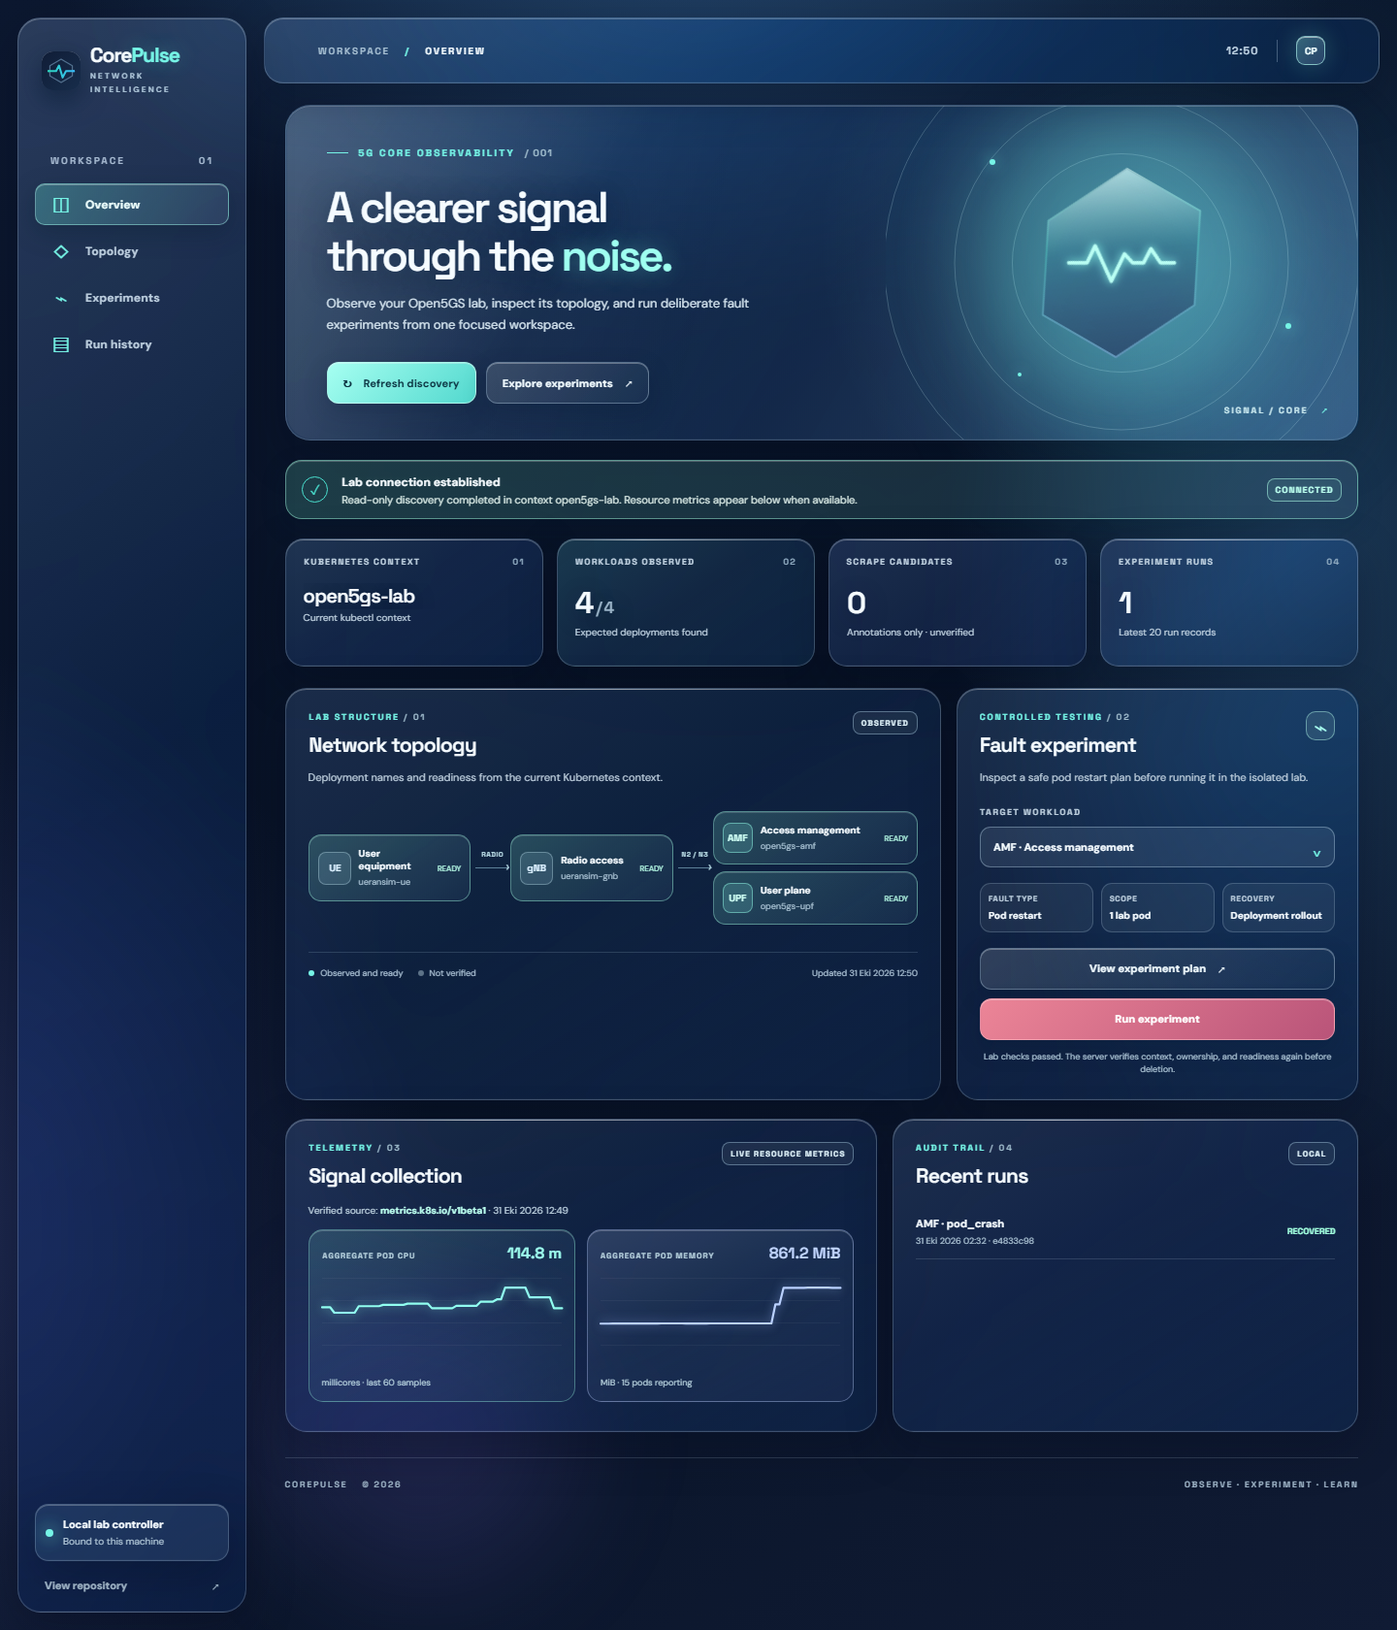
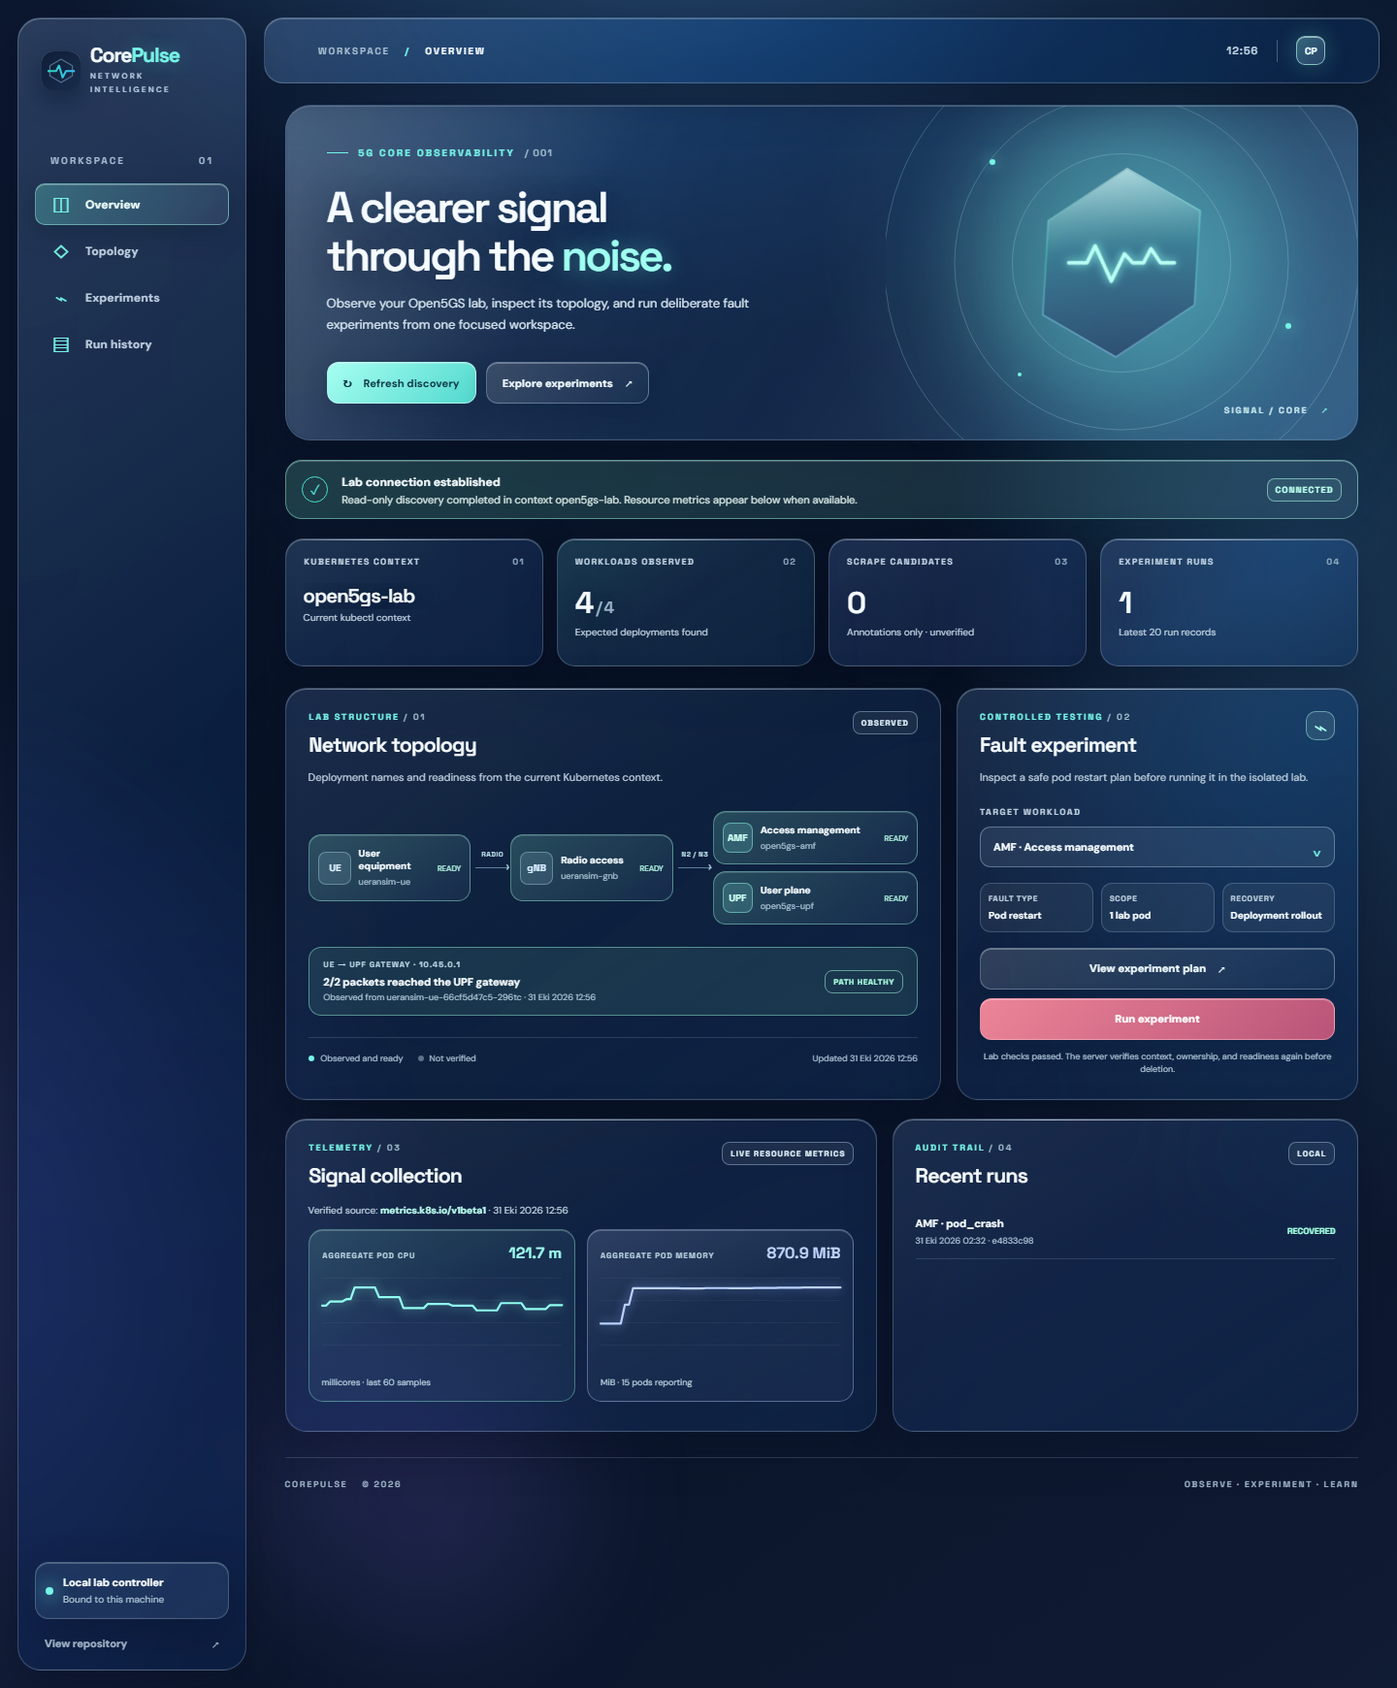
Add live UE to UPF service probe

diff --git a/internal/dashboard/web/app.js b/internal/dashboard/web/app.js
@@ -155,6 +155,29 @@ async function refreshTelemetry() {
   }
 }
 
+async function refreshService() {
+  try {
+    const response = await fetch('/api/service-check', { cache: 'no-store' });
+    if (!response.ok) throw new Error(`Service check returned ${response.status}`);
+    const probe = await response.json();
+    const card = $('#service-probe');
+    card.classList.toggle('healthy', probe.status === 'healthy');
+    card.classList.toggle('degraded', probe.status === 'degraded');
+    $('#probe-badge').textContent = probe.status === 'healthy' ? 'PATH HEALTHY' : probe.status === 'degraded' ? 'DEGRADED' : 'UNAVAILABLE';
+    $('#probe-title').textContent = probe.status === 'healthy'
+      ? `${probe.received}/${probe.sent} packets reached the UPF gateway`
+      : probe.status === 'degraded' ? 'UE path did not pass the ping check' : 'UE path could not be checked';
+    $('#probe-detail').textContent = probe.status === 'healthy'
+      ? `Observed from ${probe.ue_pod} · ${displayTime(probe.checked_at)}`
+      : probe.detail || 'The isolated lab or its current UE pod is unavailable.';
+  } catch (error) {
+    $('#service-probe').classList.remove('healthy', 'degraded');
+    $('#probe-badge').textContent = 'UNAVAILABLE';
+    $('#probe-title').textContent = 'UE path could not be checked';
+    $('#probe-detail').textContent = error.message;
+  }
+}
+
 function addPlanRow(parent, label, value) {
   const row = document.createElement('div'); row.className = 'plan-row';
   const key = document.createElement('span'); key.textContent = label;
@@ -189,8 +212,9 @@ async function runExperiment() {
     const result = await response.json();
     if (!response.ok) throw new Error(result.error || 'Experiment failed');
     const datasetNote = result.dataset ? ` Dataset updated: ${result.dataset.samples} samples, ${result.dataset.fault} in the experiment window.` : '';
-    toast(result.status === 'recovered' ? `Recovery verified. Run record saved.${datasetNote}` : 'Recovery could not be verified. Check the lab and run record.');
-    await Promise.all([refreshOverview(), refreshRuns()]);
+    const serviceNote = result.service_probe?.status === 'healthy' ? ' UE path verified.' : result.service_probe ? ' UE path needs checking.' : '';
+    toast(result.status === 'recovered' ? `Deployment recovery verified.${serviceNote} Run record saved.${datasetNote}` : 'Recovery could not be verified. Check the lab and run record.');
+    await Promise.all([refreshOverview(), refreshRuns(), refreshService()]);
   } catch (error) { toast(error.message); }
   finally { $('#confirm-dialog').close(); $('#confirm-run').textContent = 'Delete one lab pod'; $('#confirm-input').value = ''; }
 }
@@ -218,4 +242,5 @@ $('#confirm-run').addEventListener('click', runExperiment);
 updateClock(); setInterval(updateClock, 30000);
 setInterval(refreshOverview, 30000);
 setInterval(refreshTelemetry, 10000);
-Promise.all([refreshOverview(), refreshRuns(), refreshTelemetry()]);
+setInterval(refreshService, 30000);
+Promise.all([refreshOverview(), refreshRuns(), refreshTelemetry(), refreshService()]);

diff --git a/internal/dashboard/web/glass.css b/internal/dashboard/web/glass.css
@@ -140,6 +140,16 @@ main { max-width: 1680px; padding: 22px clamp(8px, 1.5vw, 26px) 0; }
 .topo-connector span::after,
 .topo-connector small { color: #b9dce6; }
 .topo-core { min-width: 0; }
+.service-probe { display: flex; align-items: center; justify-content: space-between; gap: 15px; margin-top: 17px; padding: 12px 14px; border: 1px solid #d3edff44; border-radius: 13px; background: #e2f5ff10; }
+.service-probe > div { min-width: 0; }
+.probe-kicker { display: block; color: #bad4e4; font: 700 8px 'Space Grotesk', sans-serif; letter-spacing: 1px; }
+.service-probe strong { display: block; margin-top: 6px; font-size: 11px; }
+.service-probe small { display: block; margin-top: 3px; color: #acc4d5; font-size: 9px; line-height: 1.4; overflow-wrap: anywhere; }
+.probe-badge { flex: none; border: 1px solid #d4eaff63; border-radius: 8px; padding: 6px 8px; color: #dceaf5; font: 700 8px 'Space Grotesk', sans-serif; letter-spacing: .7px; }
+.service-probe.healthy { border-color: #9effdd72; background: #8affda19; }
+.service-probe.healthy .probe-badge { color: #aaffdf; border-color: #aaffdf86; }
+.service-probe.degraded { border-color: #ffb4ae77; background: #ffa4ad19; }
+.service-probe.degraded .probe-badge { color: #ffd1ca; border-color: #ffc6bd84; }
 .panel-bottom { border-color: #c9edff27; color: #abc1d4; }
 
 .experiment-mark { color: #a8fff0; border-color: #b9ffeb70; background: #c4fff41c; border-radius: 10px; }

diff --git a/internal/dashboard/web/index.html b/internal/dashboard/web/index.html
@@ -78,6 +78,7 @@
               <div class="topo-connector"><span></span><small>N2 / N3</small></div>
               <div class="topo-core"><div class="topo-node" data-workload="open5gs-amf"><div class="topo-icon accent">AMF</div><div><strong>Access management</strong><small>open5gs-amf</small></div><span class="topo-state">—</span></div><div class="topo-node" data-workload="open5gs-upf"><div class="topo-icon accent">UPF</div><div><strong>User plane</strong><small>open5gs-upf</small></div><span class="topo-state">—</span></div></div>
             </div>
+            <div class="service-probe" id="service-probe" aria-live="polite"><div><span class="probe-kicker">UE → UPF GATEWAY · 10.45.0.1</span><strong id="probe-title">Checking user-plane path…</strong><small id="probe-detail">A live ICMP probe runs from the current UE pod.</small></div><span class="probe-badge" id="probe-badge">CHECKING</span></div>
             <div class="panel-bottom"><span class="legend"><i></i> Observed and ready <i class="legend-muted"></i> Not verified</span><span id="topology-updated">Awaiting connection</span></div>
           </section>
 

diff --git a/internal/corepulse/service.go b/internal/corepulse/service.go
@@ -1,0 +1,106 @@
+package corepulse
+
+import (
+	"fmt"
+	"regexp"
+	"strconv"
+	"strings"
+	"time"
+)
+
+const upfGateway = "10.45.0.1"
+
+var pingSummary = regexp.MustCompile(`(\d+) packets transmitted, (\d+) received`)
+
+// ServiceProbe reports a real UE-to-UPF gateway check, separate from pod readiness.
+type ServiceProbe struct {
+	Status    string `json:"status"`
+	Context   string `json:"context"`
+	Namespace string `json:"namespace"`
+	UEPod     string `json:"ue_pod,omitempty"`
+	Gateway   string `json:"gateway"`
+	Sent      int    `json:"sent"`
+	Received  int    `json:"received"`
+	CheckedAt string `json:"checked_at"`
+	Detail    string `json:"detail,omitempty"`
+}
+
+func currentUEPod(client Client) (string, error) {
+	pods, err := client.GetJSON("get", "pods", "--namespace", LabNamespace, "--selector", "app=ueransim,component=ue")
+	if err != nil {
+		return "", err
+	}
+	selected := ""
+	for _, raw := range array(pods["items"]) {
+		pod := object(raw)
+		metadata, status := object(pod["metadata"]), object(pod["status"])
+		if metadata["deletionTimestamp"] != nil || status["phase"] != "Running" {
+			continue
+		}
+		ready := false
+		for _, rawCondition := range array(status["conditions"]) {
+			condition := object(rawCondition)
+			if condition["type"] == "Ready" && condition["status"] == "True" {
+				ready = true
+			}
+		}
+		if !ready {
+			continue
+		}
+		owned := false
+		for _, rawOwner := range array(metadata["ownerReferences"]) {
+			owner := object(rawOwner)
+			if owner["kind"] == "ReplicaSet" && strings.HasPrefix(stringValue(owner["name"]), "ueransim-ue-") {
+				owned = true
+			}
+		}
+		if !owned {
+			continue
+		}
+		name := stringValue(metadata["name"])
+		if name == "" || selected != "" {
+			return "", fmt.Errorf("expected exactly one current UE pod")
+		}
+		selected = name
+	}
+	if selected == "" {
+		return "", fmt.Errorf("no ready deployment-owned UE pod found")
+	}
+	return selected, nil
+}
+
+func ProbeService(client Client) (ServiceProbe, error) {
+	probe := ServiceProbe{Status: "unavailable", Namespace: LabNamespace, Gateway: upfGateway, CheckedAt: time.Now().UTC().Format(time.RFC3339Nano)}
+	context, err := client.Run(10*time.Second, "config", "current-context")
+	if err != nil {
+		return probe, err
+	}
+	probe.Context = context
+	if context != LabContext {
+		return probe, fmt.Errorf("current context %q differs from lab context %q", context, LabContext)
+	}
+	pod, err := currentUEPod(client)
+	if err != nil {
+		return probe, err
+	}
+	probe.UEPod = pod
+	output, err := client.Run(15*time.Second, "exec", "pod/"+pod, "--namespace", LabNamespace, "--", "ping", "-I", "uesimtun0", upfGateway, "-c", "2")
+	if err != nil {
+		probe.Status, probe.Detail = "degraded", err.Error()
+		return probe, nil
+	}
+	matches := pingSummary.FindStringSubmatch(output)
+	if len(matches) != 3 {
+		probe.Status, probe.Detail = "degraded", "ping returned no recognizable packet summary"
+		return probe, nil
+	}
+	probe.Sent, _ = strconv.Atoi(matches[1])
+	probe.Received, _ = strconv.Atoi(matches[2])
+	if probe.Sent == 2 && probe.Received == 2 {
+		probe.Status = "healthy"
+	} else {
+		probe.Status = "degraded"
+		probe.Detail = "UE-to-UPF gateway packets were lost"
+	}
+	return probe, nil
+}

diff --git a/internal/corepulse/service_test.go b/internal/corepulse/service_test.go
@@ -1,0 +1,69 @@
+package corepulse
+
+import (
+	"errors"
+	"strings"
+	"testing"
+	"time"
+)
+
+type probeClient struct {
+	context string
+	execPod string
+	output  string
+	execErr error
+}
+
+func (p *probeClient) Run(_ time.Duration, args ...string) (string, error) {
+	if args[0] == "config" {
+		return p.context, nil
+	}
+	if args[0] == "exec" {
+		p.execPod = args[1]
+		return p.output, p.execErr
+	}
+	return "", errors.New("unexpected kubectl command")
+}
+
+func (p *probeClient) GetJSON(_ ...string) (map[string]any, error) {
+	makePod := func(name string, deleting bool) map[string]any {
+		metadata := map[string]any{"name": name, "ownerReferences": []any{map[string]any{"kind": "ReplicaSet", "name": "ueransim-ue-abc"}}}
+		if deleting {
+			metadata["deletionTimestamp"] = "2026-10-31T00:00:00Z"
+		}
+		return map[string]any{"metadata": metadata, "status": map[string]any{"phase": "Running", "conditions": []any{map[string]any{"type": "Ready", "status": "True"}}}}
+	}
+	return map[string]any{"items": []any{makePod("ueransim-ue-old", true), makePod("ueransim-ue-current", false)}}, nil
+}
+
+func TestProbeServiceUsesCurrentUEAndObservedPackets(t *testing.T) {
+	client := &probeClient{context: LabContext, output: "2 packets transmitted, 2 received, 0% packet loss"}
+	probe, err := ProbeService(client)
+	if err != nil {
+		t.Fatal(err)
+	}
+	if probe.Status != "healthy" || probe.Received != 2 || client.execPod != "pod/ueransim-ue-current" {
+		t.Fatalf("unexpected probe: %+v, exec pod: %s", probe, client.execPod)
+	}
+}
+
+func TestProbeServiceNeverExecutesOutsideLab(t *testing.T) {
+	client := &probeClient{context: "production"}
+	if _, err := ProbeService(client); err == nil || !strings.Contains(err.Error(), "differs") {
+		t.Fatalf("expected context error, got %v", err)
+	}
+	if client.execPod != "" {
+		t.Fatal("executed probe outside lab")
+	}
+}
+
+func TestProbeServiceReportsPacketFailure(t *testing.T) {
+	client := &probeClient{context: LabContext, execErr: errors.New("ping lost packets")}
+	probe, err := ProbeService(client)
+	if err != nil {
+		t.Fatal(err)
+	}
+	if probe.Status != "degraded" || probe.Detail == "" {
+		t.Fatalf("unexpected probe: %+v", probe)
+	}
+}

diff --git a/cmd/corepulse/main.go b/cmd/corepulse/main.go
@@ -40,10 +40,25 @@ func saveJSON(path string, value any) error {
 
 func run(args []string) (int, error) {
 	if len(args) == 0 {
-		return 1, errors.New("usage: corepulse <version|discover|pod-crash|dataset|serve> [options]")
+		return 1, errors.New("usage: corepulse <version|discover|verify-service|pod-crash|dataset|serve> [options]")
 	}
 	client := corepulse.Kubectl{}
 	switch args[0] {
+	case "verify-service":
+		if len(args) != 1 {
+			return 1, errors.New("verify-service takes no arguments")
+		}
+		probe, err := corepulse.ProbeService(client)
+		if err != nil {
+			return 1, err
+		}
+		if err := printJSON(probe); err != nil {
+			return 1, err
+		}
+		if probe.Status != "healthy" {
+			return 2, nil
+		}
+		return 0, nil
 	case "version":
 		if len(args) != 1 {
 			return 1, errors.New("version takes no arguments")
@@ -148,6 +163,13 @@ func run(args []string) (int, error) {
 		if err != nil {
 			return 1, err
 		}
+		if result["status"] == "recovered" {
+			probe, probeErr := corepulse.ProbeService(client)
+			if probeErr != nil {
+				probe.Detail = probeErr.Error()
+			}
+			result["service_probe"] = probe
+		}
 		path := filepath.Join(*runsDir, result["run_id"].(string)+".json")
 		if err := saveJSON(path, result); err != nil {
 			return 1, err
@@ -161,7 +183,7 @@ func run(args []string) (int, error) {
 		}
 		return 0, nil
 	default:
-		return 1, fmt.Errorf("unknown command %q; use version, discover, pod-crash, dataset, or serve", args[0])
+		return 1, fmt.Errorf("unknown command %q; use version, discover, verify-service, pod-crash, dataset, or serve", args[0])
 	}
 }
 

diff --git a/internal/dashboard/server.go b/internal/dashboard/server.go
@@ -37,6 +37,7 @@ func NewWithTelemetry(client corepulse.Client, runsDir string, store *telemetry.
 	mux.HandleFunc("GET /api/plan", s.plan)
 	mux.HandleFunc("GET /api/runs", s.runs)
 	mux.HandleFunc("GET /api/telemetry", s.telemetry)
+	mux.HandleFunc("GET /api/service-check", s.serviceCheck)
 	mux.HandleFunc("POST /api/experiments/pod-crash", s.runPodCrash)
 	web, _ := fs.Sub(webFiles, "web")
 	mux.Handle("/", http.FileServer(http.FS(web)))
@@ -64,6 +65,14 @@ func (s *Server) telemetry(w http.ResponseWriter, _ *http.Request) {
 		result["latest"] = samples[len(samples)-1]
 	}
 	writeJSON(w, http.StatusOK, result)
+}
+
+func (s *Server) serviceCheck(w http.ResponseWriter, _ *http.Request) {
+	probe, err := corepulse.ProbeService(s.Client)
+	if err != nil {
+		probe.Detail = err.Error()
+	}
+	writeJSON(w, http.StatusOK, probe)
 }
 
 func loopbackHost(address string) bool {
@@ -192,6 +201,13 @@ func (s *Server) runPodCrash(w http.ResponseWriter, r *http.Request) {
 	if err != nil {
 		writeJSON(w, http.StatusConflict, map[string]string{"error": err.Error()})
 		return
+	}
+	if result["status"] == "recovered" {
+		probe, probeErr := corepulse.ProbeService(s.Client)
+		if probeErr != nil {
+			probe.Detail = probeErr.Error()
+		}
+		result["service_probe"] = probe
 	}
 	path := filepath.Join(s.RunsDir, fmt.Sprint(result["run_id"])+".json")
 	if err := os.MkdirAll(s.RunsDir, 0755); err != nil {

diff --git a/internal/dashboard/server_test.go b/internal/dashboard/server_test.go
@@ -43,7 +43,7 @@ func TestOfflineOverviewIsExplicit(t *testing.T) {
 
 func TestPlanAndStaticDashboard(t *testing.T) {
 	handler := New(&unavailableClient{}, t.TempDir())
-	for _, path := range []string{"/", "/styles.css", "/glass.css", "/app.js", "/icon.svg", "/api/plan?target=amf"} {
+	for _, path := range []string{"/", "/styles.css", "/glass.css", "/app.js", "/icon.svg", "/api/plan?target=amf", "/api/service-check"} {
 		response := httptest.NewRecorder()
 		handler.ServeHTTP(response, httptest.NewRequest(http.MethodGet, "http://127.0.0.1:8787"+path, nil))
 		if response.Code != http.StatusOK {

diff --git a/README.md b/README.md
@@ -48,6 +48,7 @@ The existing [Open5GS + UERANSIM lab](https://github.com/lazypanic999/open5gs-ue
 - `corepulse serve` opens a local dashboard with lab connection state, workload topology, an experiment plan, and recent run records. The run control requires the exact lab context and a second typed confirmation. Offline preview mode does not invent live telemetry.
 - While the server runs, it samples `metrics.k8s.io/v1beta1` every 10 seconds and displays live aggregate pod CPU and memory. Raw samples are saved in ignored `data/telemetry.jsonl`.
 - `corepulse dataset` joins those samples with recorded experiment intervals into ignored `data/dataset.csv`, with `normal` and `pod_crash` labels. The dashboard rebuilds it after an experiment.
+- `corepulse verify-service` checks the current ready UE pod's path to the UPF tunnel gateway (`10.45.0.1`). The dashboard shows this live check separately from pod readiness, and new fault run records include the result after deployment recovery.
 - `scripts/configure-gnb-n3.sh` corrects the tested UERANSIM chart's gNB N3 address in the isolated lab. With that patch, the lab's end-to-end verification passed, including UE registration, PDU session, and external ping.
 - Go unit tests and GitHub Actions CI cover discovery, fault safety guards, telemetry parsing, dataset labeling, and the dashboard API.
 
@@ -67,6 +68,7 @@ Then run `./scripts/verify.sh` from the lab repository checkout. The [integratio
 
 ```bash
 go run ./cmd/corepulse discover --output reports/discovery.json
+go run ./cmd/corepulse verify-service
 go run ./cmd/corepulse pod-crash --target amf
 ```
 
@@ -77,7 +79,7 @@ go run ./cmd/corepulse pod-crash --target amf --apply
 go run ./cmd/corepulse dataset --telemetry data/telemetry.jsonl --runs-dir runs --output data/dataset.csv
 ```
 
-The required Kubernetes context is `open5gs-lab`, matching the lab's Minikube profile. Run records are saved under ignored `runs/`. The command reports `recovery_unverified` and exits unsuccessfully if Kubernetes does not confirm deployment recovery. That readiness check does not confirm UE traffic or packet forwarding. This pod experiment is intended only for the local lab.
+The required Kubernetes context is `open5gs-lab`, matching the lab's Minikube profile. Run records are saved under ignored `runs/`. The command reports `recovery_unverified` and exits unsuccessfully if Kubernetes does not confirm deployment recovery. The separate UE-to-UPF check reports observed packet forwarding to the tunnel gateway; it does not prove external reachability. This pod experiment is intended only for the local lab.
 
 Run the tests without a cluster:
 
@@ -97,7 +99,7 @@ The liquid glass dashboard binds to loopback only. It shows a **preview** state 
 
 ### Interface captures
 
-These captures were taken from the running Go dashboard on 31 October 2026, connected to the local Open5GS lab. The charts display observed Kubernetes resource metrics and the run history displays a recorded AMF experiment. They do not represent model predictions.
+These captures were taken from the running Go dashboard on 31 October 2026, connected to the local Open5GS lab. The charts display observed Kubernetes resource metrics, the topology card shows a live UE-to-UPF gateway probe, and the run history displays a recorded AMF experiment. They do not represent model predictions.
 
 **Desktop**
 

diff --git a/docs/run-record.md b/docs/run-record.md
@@ -15,5 +15,6 @@ Each applied `pod-crash` experiment writes one UTF-8 JSON file under `runs/`, na
 | `started_at`, `ended_at` | Experiment bounds |
 | `status` | `recovered` or `recovery_unverified` |
 | `error` | Failure detail, present only when recovery is unverified |
+| `service_probe` | Optional read-only UE-to-UPF gateway check after deployment recovery: status, current UE pod, packet counts, and time. A healthy gateway check does not prove external Internet reachability. |
 
-The run label records the action that CorePulse applied. It is **not** an ML prediction. Future telemetry windows should reference `run_id` and preserve normal periods before and after the fault. Train/test splitting must group all windows from one `run_id` together.
+The run label records the action that CorePulse applied. It is **not** an ML prediction. `recovered` means the replacement deployment became ready; inspect `service_probe` separately for the observed UE path. Older run records may not contain this field. Future telemetry windows should reference `run_id` and preserve normal periods before and after the fault. Train/test splitting must group all windows from one `run_id` together.

diff --git a/CHANGELOG.md b/CHANGELOG.md
@@ -1,5 +1,10 @@
 # Changelog
 
+## Unreleased
+
+- Liquid glass desktop and narrow-screen dashboard with updated live captures.
+- Read-only UE-to-UPF gateway probe in the CLI, dashboard, and new experiment records.
+
 ## v0.1.0 — 2026-10-31 (preview)
 
 - Go CLI for lab discovery, a guarded AMF/UPF pod crash, and labeled CSV generation.
